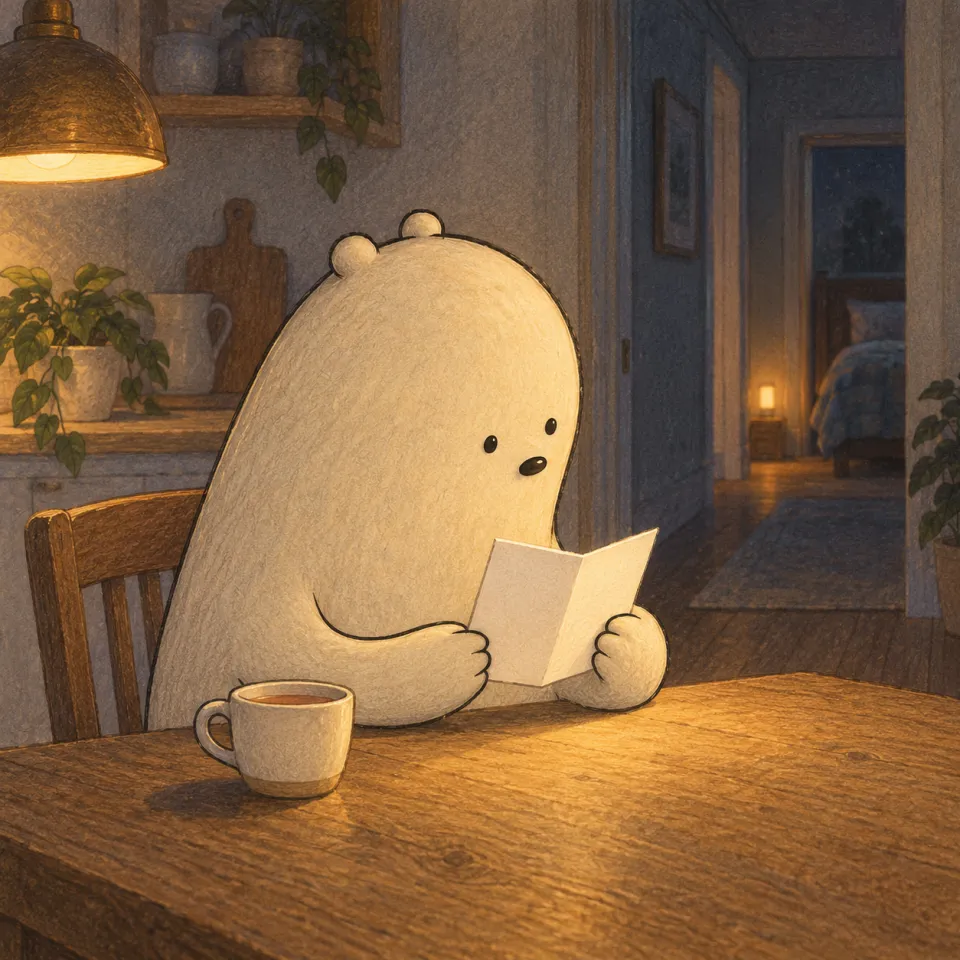
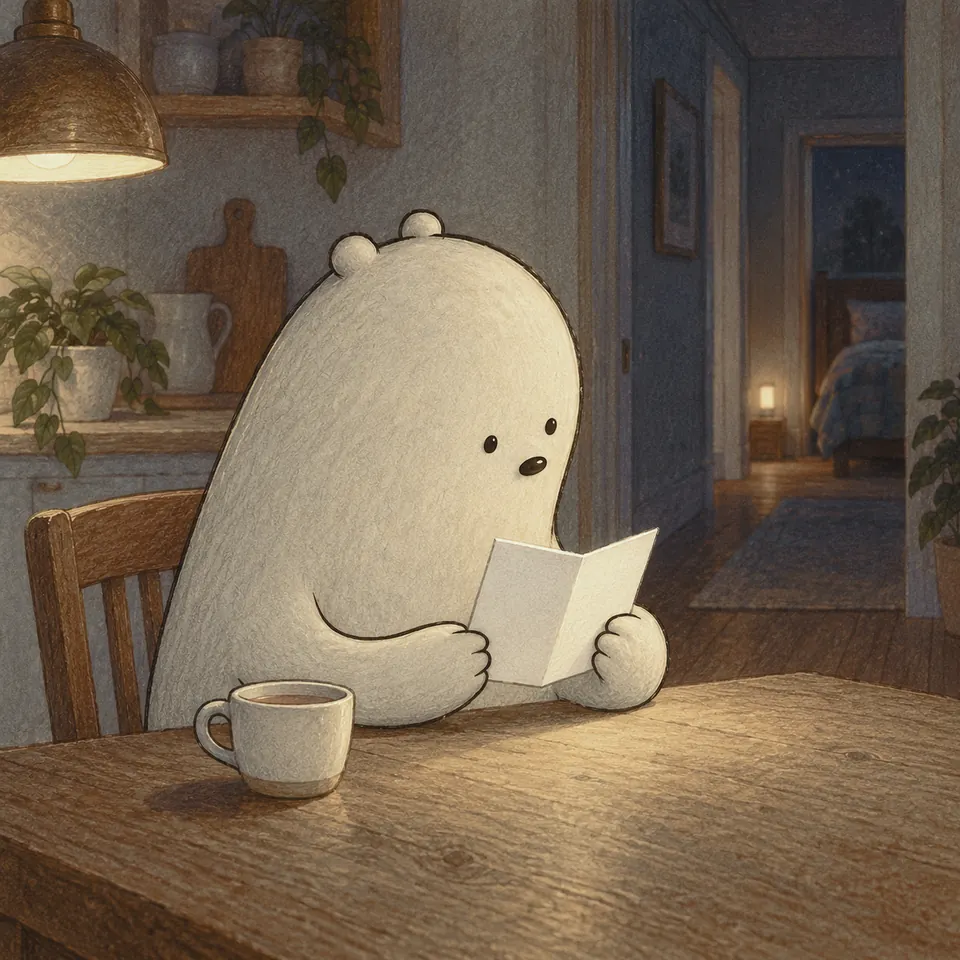
Welcome D: regrade welcome art to the house palette (hero, door-little, step-read, step-note)

diff --git a/dist/welcome/index.html b/dist/welcome/index.html
@@ -38,7 +38,7 @@
 <main>
   <section class="w-hero" aria-labelledby="w-hero-title">
     <div class="w-hero-scene">
-      <img class="w-hero-img" src="./img/hero-1600.webp" srcset="./img/hero-800.webp 800w, ./img/hero-1600.webp 1600w" sizes="(min-width: 900px) 56vw, 100vw" alt="Two cartoon bears, one big and one small, curled up in a window nook at dusk, reading a picture book by lamplight under a crescent moon." width="1600" height="1067" fetchpriority="high">
+      <img class="w-hero-img" src="./img/hero-1600.webp" srcset="./img/hero-800.webp 800w, ./img/hero-1600.webp 1600w" sizes="(min-width: 900px) 56vw, 100vw" alt="Two round, cream-colored cartoon characters, one big and one small, sit side by side on a patchwork quilt in the early evening, looking at an open picture book. A small lamp glows on the sill of a window with a crescent moon." width="1600" height="1067" fetchpriority="high">
     </div>
     <div class="w-hero-copy">
       <p class="w-kicker">For parents</p>
